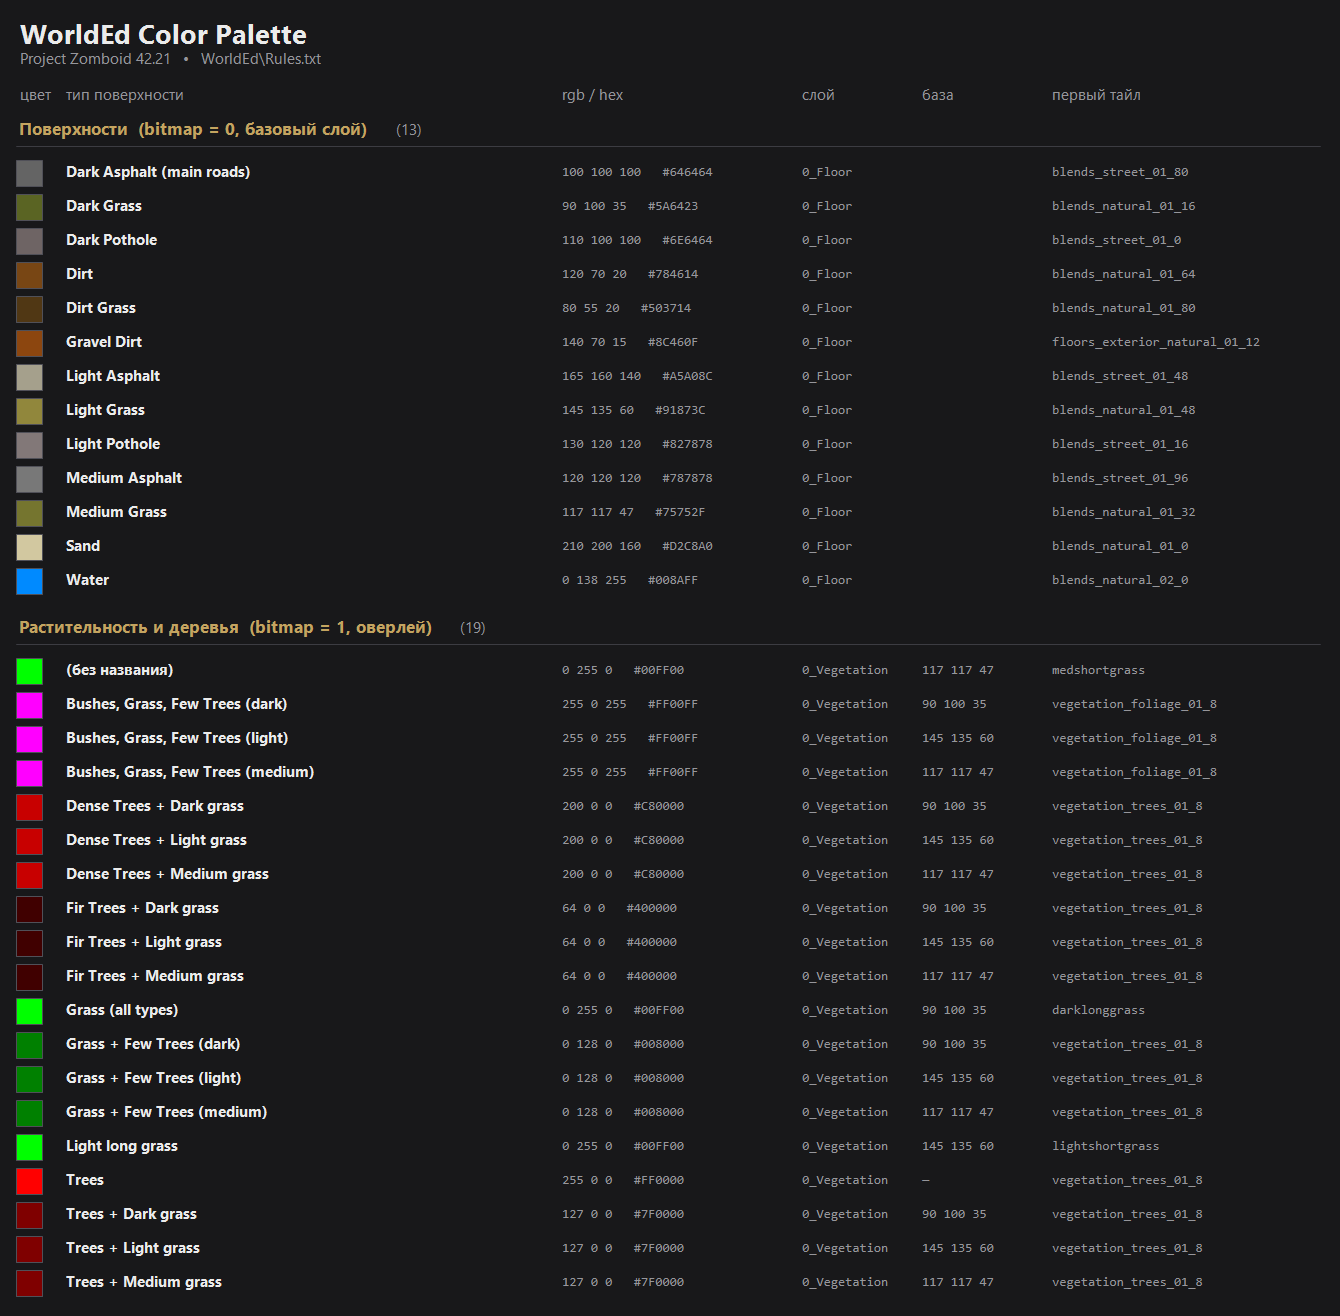
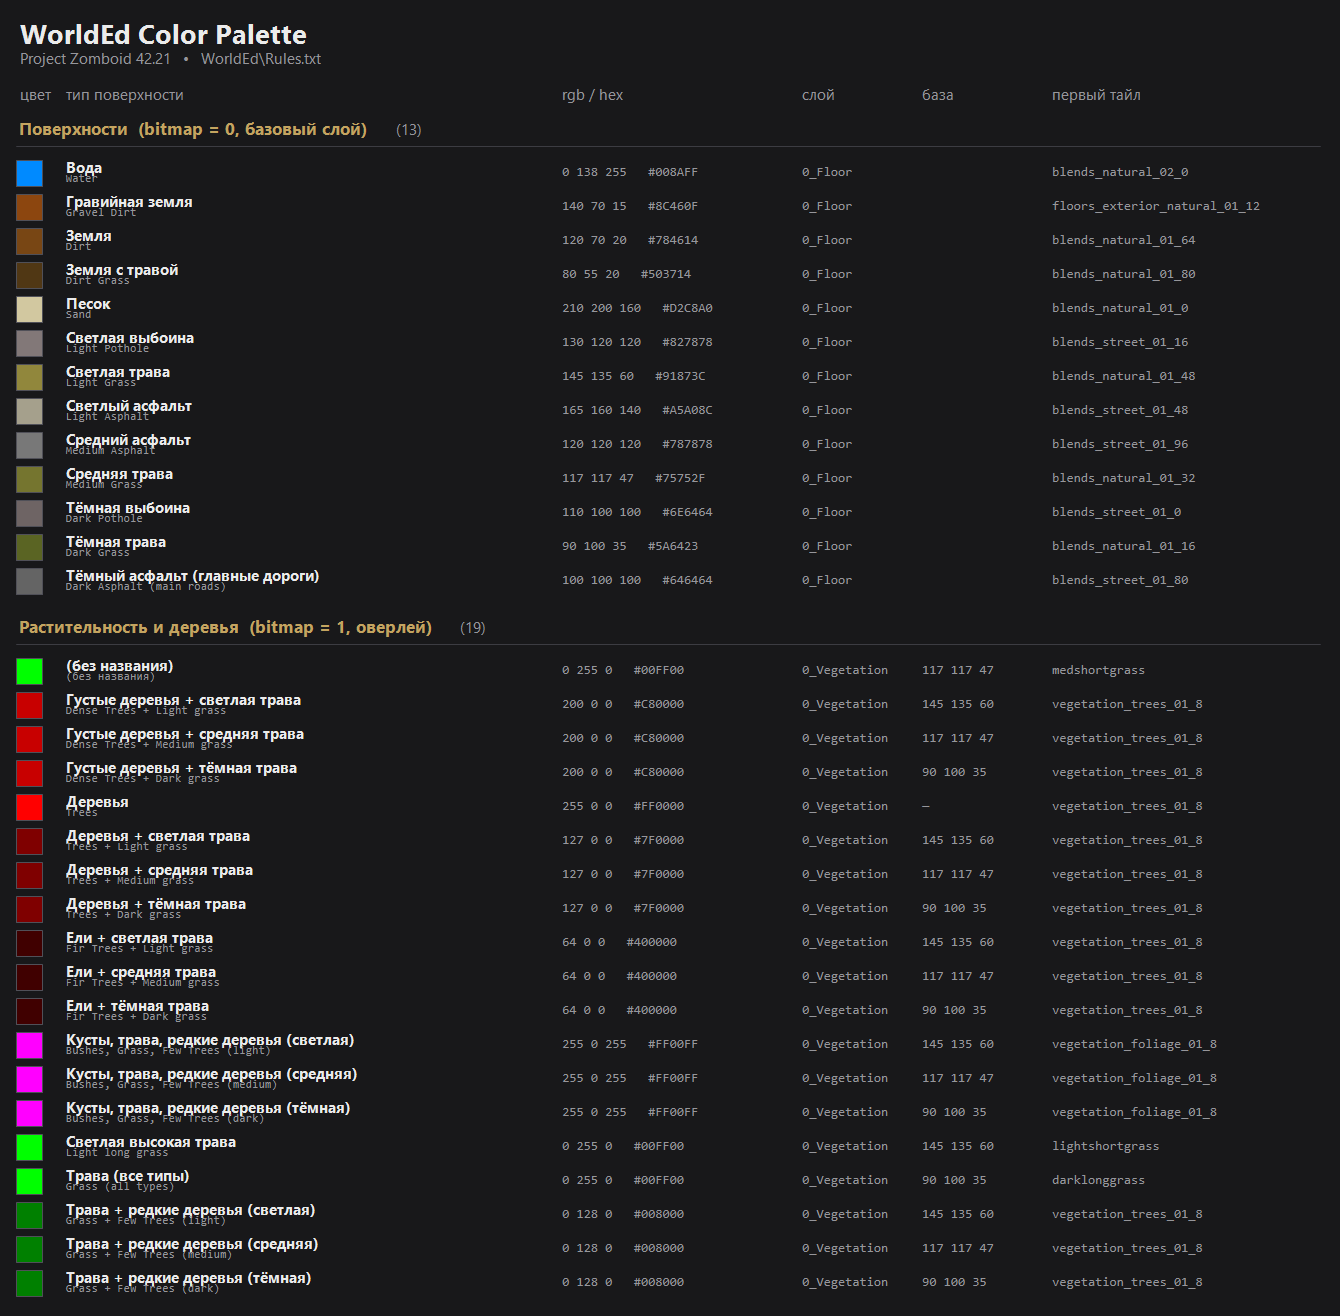
map: перевод палитры WorldEd на русский

diff --git a/docs/world/worlded-colors.md b/docs/world/worlded-colors.md
@@ -3,54 +3,56 @@
 Соответствие «цвет → тайлы» для рисования карты в WorldEd. Источник — `WorldEd\Rules.txt`
 из Project Zomboid Modding Tools (Build 42.21). Сгенерировано автоматически.
 
+Названия переведены на русский; исходные подписи из `Rules.txt` — в колонке «Оригинал».
+
 ![Палитра WorldEd](worlded-colors.png)
 
 ## Поверхности (`bitmap = 0`)
 
 Базовый слой: цвет заливки клетки целиком заменяется тайлами из правила.
 
-| Свотч | RGB | HEX | Тип поверхности | Слой | Алиас | Тайлы |
-|---|---|---|---|---|---|---|
-| `#646464` | 100 100 100 | `#646464` | Dark Asphalt (main roads) | `0_Floor` | `street2` | `street2` → `blends_street_01_80`, `blends_street_01_85`, `blends_street_01_86`, `blends_street_01_87` |
-| `#5A6423` | 90 100 35 | `#5A6423` | Dark Grass | `0_Floor` | `darkgrass` | `darkgrass` → `blends_natural_01_16`, `blends_natural_01_21`, `blends_natural_01_22`, `blends_natural_01_23` |
-| `#6E6464` | 110 100 100 | `#6E6464` | Dark Pothole | `0_Floor` | — | `blends_street_01_0` |
-| `#784614` | 120 70 20 | `#784614` | Dirt | `0_Floor` | `dirt` | `dirt` → `blends_natural_01_64`, `blends_natural_01_69`, `blends_natural_01_70`, `blends_natural_01_71` |
-| `#503714` | 80 55 20 | `#503714` | Dirt Grass | `0_Floor` | `dirtgrass` | `dirtgrass` → `blends_natural_01_80`, `blends_natural_01_85`, `blends_natural_01_86`, `blends_natural_01_87` |
-| `#8C460F` | 140 70 15 | `#8C460F` | Gravel Dirt | `0_Floor` | — | `floors_exterior_natural_01_12` |
-| `#A5A08C` | 165 160 140 | `#A5A08C` | Light Asphalt | `0_Floor` | `lightgravel` | `lightgravel` → `blends_street_01_48`, `blends_street_01_53`, `blends_street_01_54`, `blends_street_01_55` |
-| `#91873C` | 145 135 60 | `#91873C` | Light Grass | `0_Floor` | `lightgrass` | `lightgrass` → `blends_natural_01_48`, `blends_natural_01_53`, `blends_natural_01_54`, `blends_natural_01_55` |
-| `#827878` | 130 120 120 | `#827878` | Light Pothole | `0_Floor` | `pothole` | `pothole` → `blends_street_01_16`, `blends_street_01_21` |
-| `#787878` | 120 120 120 | `#787878` | Medium Asphalt | `0_Floor` | `street` | `street` → `blends_street_01_96`, `blends_street_01_101`, `blends_street_01_102`, `blends_street_01_103` |
-| `#75752F` | 117 117 47 | `#75752F` | Medium Grass | `0_Floor` | `medgrass` | `medgrass` → `blends_natural_01_32`, `blends_natural_01_37`, `blends_natural_01_38`, `blends_natural_01_39` |
-| `#D2C8A0` | 210 200 160 | `#D2C8A0` | Sand | `0_Floor` | `sand` | `sand` → `blends_natural_01_0`, `blends_natural_01_5`, `blends_natural_01_6`, `blends_natural_01_7` |
-| `#008AFF` | 0 138 255 | `#008AFF` | Water | `0_Floor` | `water` | `water` → `blends_natural_02_0`, `blends_natural_02_5`, `blends_natural_02_6`, `blends_natural_02_7` |
+| Свотч | RGB | HEX | Тип поверхности | Оригинал (`Rules.txt`) | Слой | Алиас | Тайлы |
+|---|---|---|---|---|---|---|---|
+| `#008AFF` | 0 138 255 | `#008AFF` | Вода | Water | `0_Floor` | `water` | `water` → `blends_natural_02_0`, `blends_natural_02_5`, `blends_natural_02_6`, `blends_natural_02_7` |
+| `#8C460F` | 140 70 15 | `#8C460F` | Гравийная земля | Gravel Dirt | `0_Floor` | — | `floors_exterior_natural_01_12` |
+| `#784614` | 120 70 20 | `#784614` | Земля | Dirt | `0_Floor` | `dirt` | `dirt` → `blends_natural_01_64`, `blends_natural_01_69`, `blends_natural_01_70`, `blends_natural_01_71` |
+| `#503714` | 80 55 20 | `#503714` | Земля с травой | Dirt Grass | `0_Floor` | `dirtgrass` | `dirtgrass` → `blends_natural_01_80`, `blends_natural_01_85`, `blends_natural_01_86`, `blends_natural_01_87` |
+| `#D2C8A0` | 210 200 160 | `#D2C8A0` | Песок | Sand | `0_Floor` | `sand` | `sand` → `blends_natural_01_0`, `blends_natural_01_5`, `blends_natural_01_6`, `blends_natural_01_7` |
+| `#827878` | 130 120 120 | `#827878` | Светлая выбоина | Light Pothole | `0_Floor` | `pothole` | `pothole` → `blends_street_01_16`, `blends_street_01_21` |
+| `#91873C` | 145 135 60 | `#91873C` | Светлая трава | Light Grass | `0_Floor` | `lightgrass` | `lightgrass` → `blends_natural_01_48`, `blends_natural_01_53`, `blends_natural_01_54`, `blends_natural_01_55` |
+| `#A5A08C` | 165 160 140 | `#A5A08C` | Светлый асфальт | Light Asphalt | `0_Floor` | `lightgravel` | `lightgravel` → `blends_street_01_48`, `blends_street_01_53`, `blends_street_01_54`, `blends_street_01_55` |
+| `#787878` | 120 120 120 | `#787878` | Средний асфальт | Medium Asphalt | `0_Floor` | `street` | `street` → `blends_street_01_96`, `blends_street_01_101`, `blends_street_01_102`, `blends_street_01_103` |
+| `#75752F` | 117 117 47 | `#75752F` | Средняя трава | Medium Grass | `0_Floor` | `medgrass` | `medgrass` → `blends_natural_01_32`, `blends_natural_01_37`, `blends_natural_01_38`, `blends_natural_01_39` |
+| `#6E6464` | 110 100 100 | `#6E6464` | Тёмная выбоина | Dark Pothole | `0_Floor` | — | `blends_street_01_0` |
+| `#5A6423` | 90 100 35 | `#5A6423` | Тёмная трава | Dark Grass | `0_Floor` | `darkgrass` | `darkgrass` → `blends_natural_01_16`, `blends_natural_01_21`, `blends_natural_01_22`, `blends_natural_01_23` |
+| `#646464` | 100 100 100 | `#646464` | Тёмный асфальт (главные дороги) | Dark Asphalt (main roads) | `0_Floor` | `street2` | `street2` → `blends_street_01_80`, `blends_street_01_85`, `blends_street_01_86`, `blends_street_01_87` |
 
 ## Растительность и деревья (`bitmap = 1`, оверлей)
 
 Кладутся поверх базовой поверхности. `condition` — цвет базовой поверхности, на которую
 правило наносится (например, «деревья + тёмная трава»).
 
-| Свотч | RGB | HEX | Тип | Слой | База (`condition`) | Тайлы |
-|---|---|---|---|---|---|---|
-| `#00FF00` | 0 255 0 | `#00FF00` | (без названия) | `0_Vegetation` | `117 117 47` | medshortgrass, medmedgrass, medlonggrass, vegetation_groundcover_01_18, vegetation_groundcover_01_19, vegetation_groundcover_01_21, vegetation_groundcover_01_22, vegetation_groundcover_01_23 |
-| `#FF00FF` | 255 0 255 | `#FF00FF` | Bushes, Grass, Few Trees (dark) | `0_Vegetation` | `90 100 35` | vegetation_foliage_01_8, vegetation_foliage_01_9, vegetation_foliage_01_10, vegetation_foliage_01_11, vegetation_foliage_01_12, vegetation_foliage_01_13, vegetation_foliage_01_14, vegetation_trees_01_8 … (+6) |
-| `#FF00FF` | 255 0 255 | `#FF00FF` | Bushes, Grass, Few Trees (light) | `0_Vegetation` | `145 135 60` | vegetation_foliage_01_8, vegetation_foliage_01_9, vegetation_foliage_01_10, vegetation_foliage_01_11, vegetation_foliage_01_12, vegetation_foliage_01_13, vegetation_foliage_01_14, vegetation_trees_01_8 … (+6) |
-| `#FF00FF` | 255 0 255 | `#FF00FF` | Bushes, Grass, Few Trees (medium) | `0_Vegetation` | `117 117 47` | vegetation_foliage_01_8, vegetation_foliage_01_9, vegetation_foliage_01_10, vegetation_foliage_01_11, vegetation_foliage_01_12, vegetation_foliage_01_13, vegetation_foliage_01_14, vegetation_trees_01_8 … (+6) |
-| `#C80000` | 200 0 0 | `#C80000` | Dense Trees + Dark grass | `0_Vegetation` | `90 100 35` | vegetation_trees_01_8, vegetation_trees_01_9, vegetation_trees_01_10, vegetation_trees_01_11, darklonggrass |
-| `#C80000` | 200 0 0 | `#C80000` | Dense Trees + Light grass | `0_Vegetation` | `145 135 60` | vegetation_trees_01_8, vegetation_trees_01_9, vegetation_trees_01_10, vegetation_trees_01_11, lightlonggrass |
-| `#C80000` | 200 0 0 | `#C80000` | Dense Trees + Medium grass | `0_Vegetation` | `117 117 47` | vegetation_trees_01_8, vegetation_trees_01_9, vegetation_trees_01_10, vegetation_trees_01_11, medlonggrass |
-| `#400000` | 64 0 0 | `#400000` | Fir Trees + Dark grass | `0_Vegetation` | `90 100 35` | vegetation_trees_01_8, vegetation_trees_01_9, darklonggrass, darkmedgrass, darkshortgrass |
-| `#400000` | 64 0 0 | `#400000` | Fir Trees + Light grass | `0_Vegetation` | `145 135 60` | vegetation_trees_01_8, vegetation_trees_01_9, lightlonggrass, lightmedgrass, lightshortgrass |
-| `#400000` | 64 0 0 | `#400000` | Fir Trees + Medium grass | `0_Vegetation` | `117 117 47` | vegetation_trees_01_8, vegetation_trees_01_9, medlonggrass, medmedgrass, medshortgrass |
-| `#00FF00` | 0 255 0 | `#00FF00` | Grass (all types) | `0_Vegetation` | `90 100 35` | darklonggrass, darkmedgrass, darkshortgrass, vegetation_groundcover_01_18, vegetation_groundcover_01_19, vegetation_groundcover_01_21, vegetation_groundcover_01_22, vegetation_groundcover_01_23 |
-| `#008000` | 0 128 0 | `#008000` | Grass + Few Trees (dark) | `0_Vegetation` | `90 100 35` | vegetation_trees_01_8, vegetation_trees_01_10, darklonggrass, darkmedgrass, darkshortgrass, vegetation_groundcover_01_18, vegetation_groundcover_01_19, vegetation_groundcover_01_21 … (+2) |
-| `#008000` | 0 128 0 | `#008000` | Grass + Few Trees (light) | `0_Vegetation` | `145 135 60` | vegetation_trees_01_8, vegetation_trees_01_10, lightlonggrass, lightmedgrass, lightshortgrass, vegetation_groundcover_01_18, vegetation_groundcover_01_19, vegetation_groundcover_01_21 … (+2) |
-| `#008000` | 0 128 0 | `#008000` | Grass + Few Trees (medium) | `0_Vegetation` | `117 117 47` | vegetation_trees_01_8, vegetation_trees_01_10, medlonggrass, medmedgrass, medshortgrass, vegetation_groundcover_01_18, vegetation_groundcover_01_19, vegetation_groundcover_01_21 … (+2) |
-| `#00FF00` | 0 255 0 | `#00FF00` | Light long grass | `0_Vegetation` | `145 135 60` | lightshortgrass, lightmedgrass, lightlonggrass, vegetation_groundcover_01_18, vegetation_groundcover_01_19, vegetation_groundcover_01_21, vegetation_groundcover_01_22, vegetation_groundcover_01_23 |
-| `#FF0000` | 255 0 0 | `#FF0000` | Trees | `0_Vegetation` | — | vegetation_trees_01_8, vegetation_trees_01_9, vegetation_trees_01_10, vegetation_trees_01_11 |
-| `#7F0000` | 127 0 0 | `#7F0000` | Trees + Dark grass | `0_Vegetation` | `90 100 35` | vegetation_trees_01_8, vegetation_trees_01_9, vegetation_trees_01_10, vegetation_trees_01_11, darklonggrass, darkmedgrass, darkshortgrass |
-| `#7F0000` | 127 0 0 | `#7F0000` | Trees + Light grass | `0_Vegetation` | `145 135 60` | vegetation_trees_01_8, vegetation_trees_01_9, vegetation_trees_01_10, vegetation_trees_01_11, lightlonggrass, lightmedgrass, lightshortgrass |
-| `#7F0000` | 127 0 0 | `#7F0000` | Trees + Medium grass | `0_Vegetation` | `117 117 47` | vegetation_trees_01_8, vegetation_trees_01_9, vegetation_trees_01_10, vegetation_trees_01_11, medlonggrass, medmedgrass, medshortgrass |
+| Свотч | RGB | HEX | Тип | Оригинал (`Rules.txt`) | Слой | База (`condition`) | Тайлы |
+|---|---|---|---|---|---|---|---|
+| `#00FF00` | 0 255 0 | `#00FF00` | (без названия) | (без названия) | `0_Vegetation` | `117 117 47` | medshortgrass, medmedgrass, medlonggrass, vegetation_groundcover_01_18, vegetation_groundcover_01_19, vegetation_groundcover_01_21, vegetation_groundcover_01_22, vegetation_groundcover_01_23 |
+| `#C80000` | 200 0 0 | `#C80000` | Густые деревья + светлая трава | Dense Trees + Light grass | `0_Vegetation` | `145 135 60` | vegetation_trees_01_8, vegetation_trees_01_9, vegetation_trees_01_10, vegetation_trees_01_11, lightlonggrass |
+| `#C80000` | 200 0 0 | `#C80000` | Густые деревья + средняя трава | Dense Trees + Medium grass | `0_Vegetation` | `117 117 47` | vegetation_trees_01_8, vegetation_trees_01_9, vegetation_trees_01_10, vegetation_trees_01_11, medlonggrass |
+| `#C80000` | 200 0 0 | `#C80000` | Густые деревья + тёмная трава | Dense Trees + Dark grass | `0_Vegetation` | `90 100 35` | vegetation_trees_01_8, vegetation_trees_01_9, vegetation_trees_01_10, vegetation_trees_01_11, darklonggrass |
+| `#FF0000` | 255 0 0 | `#FF0000` | Деревья | Trees | `0_Vegetation` | — | vegetation_trees_01_8, vegetation_trees_01_9, vegetation_trees_01_10, vegetation_trees_01_11 |
+| `#7F0000` | 127 0 0 | `#7F0000` | Деревья + светлая трава | Trees + Light grass | `0_Vegetation` | `145 135 60` | vegetation_trees_01_8, vegetation_trees_01_9, vegetation_trees_01_10, vegetation_trees_01_11, lightlonggrass, lightmedgrass, lightshortgrass |
+| `#7F0000` | 127 0 0 | `#7F0000` | Деревья + средняя трава | Trees + Medium grass | `0_Vegetation` | `117 117 47` | vegetation_trees_01_8, vegetation_trees_01_9, vegetation_trees_01_10, vegetation_trees_01_11, medlonggrass, medmedgrass, medshortgrass |
+| `#7F0000` | 127 0 0 | `#7F0000` | Деревья + тёмная трава | Trees + Dark grass | `0_Vegetation` | `90 100 35` | vegetation_trees_01_8, vegetation_trees_01_9, vegetation_trees_01_10, vegetation_trees_01_11, darklonggrass, darkmedgrass, darkshortgrass |
+| `#400000` | 64 0 0 | `#400000` | Ели + светлая трава | Fir Trees + Light grass | `0_Vegetation` | `145 135 60` | vegetation_trees_01_8, vegetation_trees_01_9, lightlonggrass, lightmedgrass, lightshortgrass |
+| `#400000` | 64 0 0 | `#400000` | Ели + средняя трава | Fir Trees + Medium grass | `0_Vegetation` | `117 117 47` | vegetation_trees_01_8, vegetation_trees_01_9, medlonggrass, medmedgrass, medshortgrass |
+| `#400000` | 64 0 0 | `#400000` | Ели + тёмная трава | Fir Trees + Dark grass | `0_Vegetation` | `90 100 35` | vegetation_trees_01_8, vegetation_trees_01_9, darklonggrass, darkmedgrass, darkshortgrass |
+| `#FF00FF` | 255 0 255 | `#FF00FF` | Кусты, трава, редкие деревья (светлая) | Bushes, Grass, Few Trees (light) | `0_Vegetation` | `145 135 60` | vegetation_foliage_01_8, vegetation_foliage_01_9, vegetation_foliage_01_10, vegetation_foliage_01_11, vegetation_foliage_01_12, vegetation_foliage_01_13, vegetation_foliage_01_14, vegetation_trees_01_8 … (+6) |
+| `#FF00FF` | 255 0 255 | `#FF00FF` | Кусты, трава, редкие деревья (средняя) | Bushes, Grass, Few Trees (medium) | `0_Vegetation` | `117 117 47` | vegetation_foliage_01_8, vegetation_foliage_01_9, vegetation_foliage_01_10, vegetation_foliage_01_11, vegetation_foliage_01_12, vegetation_foliage_01_13, vegetation_foliage_01_14, vegetation_trees_01_8 … (+6) |
+| `#FF00FF` | 255 0 255 | `#FF00FF` | Кусты, трава, редкие деревья (тёмная) | Bushes, Grass, Few Trees (dark) | `0_Vegetation` | `90 100 35` | vegetation_foliage_01_8, vegetation_foliage_01_9, vegetation_foliage_01_10, vegetation_foliage_01_11, vegetation_foliage_01_12, vegetation_foliage_01_13, vegetation_foliage_01_14, vegetation_trees_01_8 … (+6) |
+| `#00FF00` | 0 255 0 | `#00FF00` | Светлая высокая трава | Light long grass | `0_Vegetation` | `145 135 60` | lightshortgrass, lightmedgrass, lightlonggrass, vegetation_groundcover_01_18, vegetation_groundcover_01_19, vegetation_groundcover_01_21, vegetation_groundcover_01_22, vegetation_groundcover_01_23 |
+| `#00FF00` | 0 255 0 | `#00FF00` | Трава (все типы) | Grass (all types) | `0_Vegetation` | `90 100 35` | darklonggrass, darkmedgrass, darkshortgrass, vegetation_groundcover_01_18, vegetation_groundcover_01_19, vegetation_groundcover_01_21, vegetation_groundcover_01_22, vegetation_groundcover_01_23 |
+| `#008000` | 0 128 0 | `#008000` | Трава + редкие деревья (светлая) | Grass + Few Trees (light) | `0_Vegetation` | `145 135 60` | vegetation_trees_01_8, vegetation_trees_01_10, lightlonggrass, lightmedgrass, lightshortgrass, vegetation_groundcover_01_18, vegetation_groundcover_01_19, vegetation_groundcover_01_21 … (+2) |
+| `#008000` | 0 128 0 | `#008000` | Трава + редкие деревья (средняя) | Grass + Few Trees (medium) | `0_Vegetation` | `117 117 47` | vegetation_trees_01_8, vegetation_trees_01_10, medlonggrass, medmedgrass, medshortgrass, vegetation_groundcover_01_18, vegetation_groundcover_01_19, vegetation_groundcover_01_21 … (+2) |
+| `#008000` | 0 128 0 | `#008000` | Трава + редкие деревья (тёмная) | Grass + Few Trees (dark) | `0_Vegetation` | `90 100 35` | vegetation_trees_01_8, vegetation_trees_01_10, darklonggrass, darkmedgrass, darkshortgrass, vegetation_groundcover_01_18, vegetation_groundcover_01_19, vegetation_groundcover_01_21 … (+2) |
 
 ## Как это работает
 
@@ -58,20 +60,3 @@
 - `tiles` — либо алиас, который в начале `Rules.txt` раскрывается в конкретные спрайты, либо готовый список тайлов.
 - Стыки поверхностей обрабатывает `WorldEd\Blends.txt`, дорожную разметку — `WorldEd\Roads.txt`.
 - Свои поверхности для мода добавляются такими же блоками `rule { }` в собственном rules-файле и своим цветом палитры.
-
-## Пересобрать таблицу и картинку
-
-```powershell
-.\docs\world\tools\make-worlded-palette.ps1
-```
-
-Скрипт читает `WorldEd\Rules.txt` из Project Zomboid Modding Tools (по умолчанию
-`W:\SteamLibrary\steamapps\common\Project Zomboid Modding Tools\WorldEd\Rules.txt`,
-другой путь — параметром `-RulesPath`) и перезаписывает `worlded-colors.md` и
-`worlded-colors.png` в этой папке.
-
-## Связанное
-
-- `docs/06-roadmap.md` — этап 6, варианты карты.
-- `docs/team/vlad.md` — зона «мир и карта».
-
